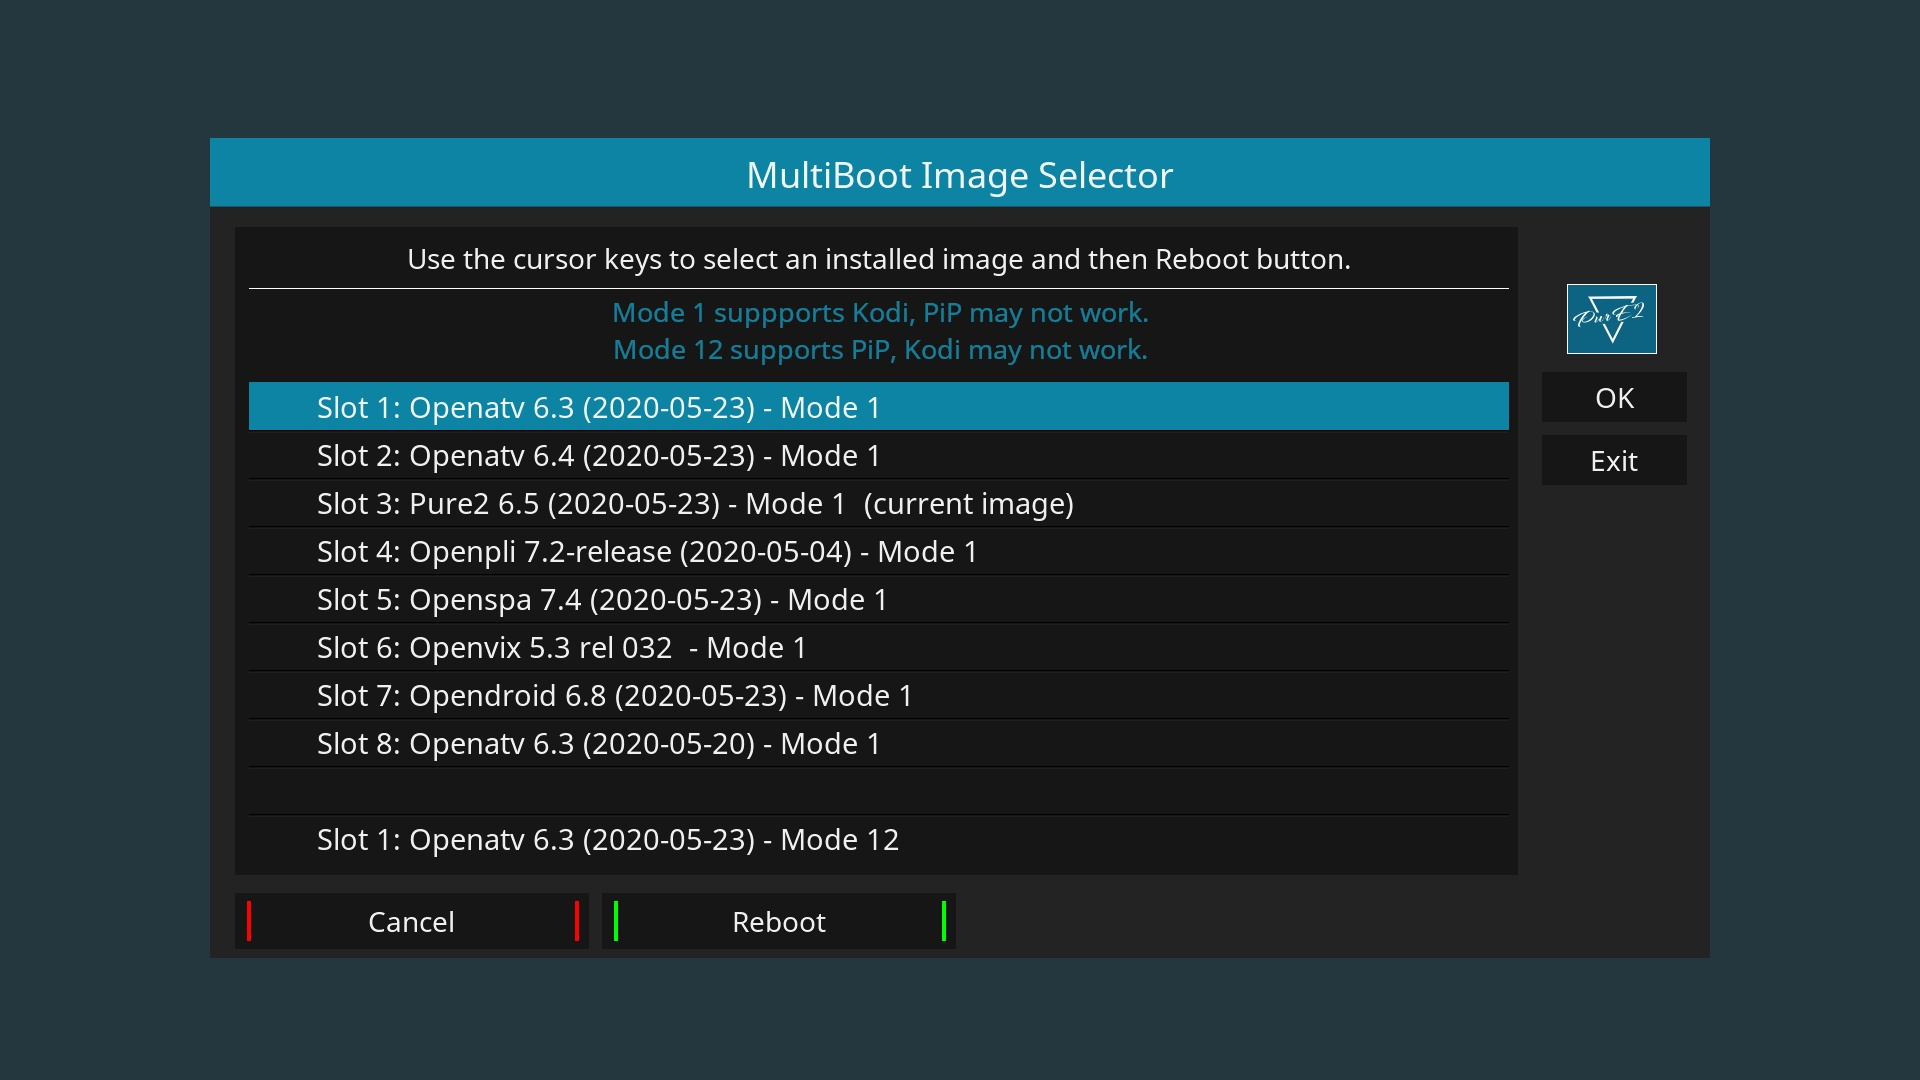
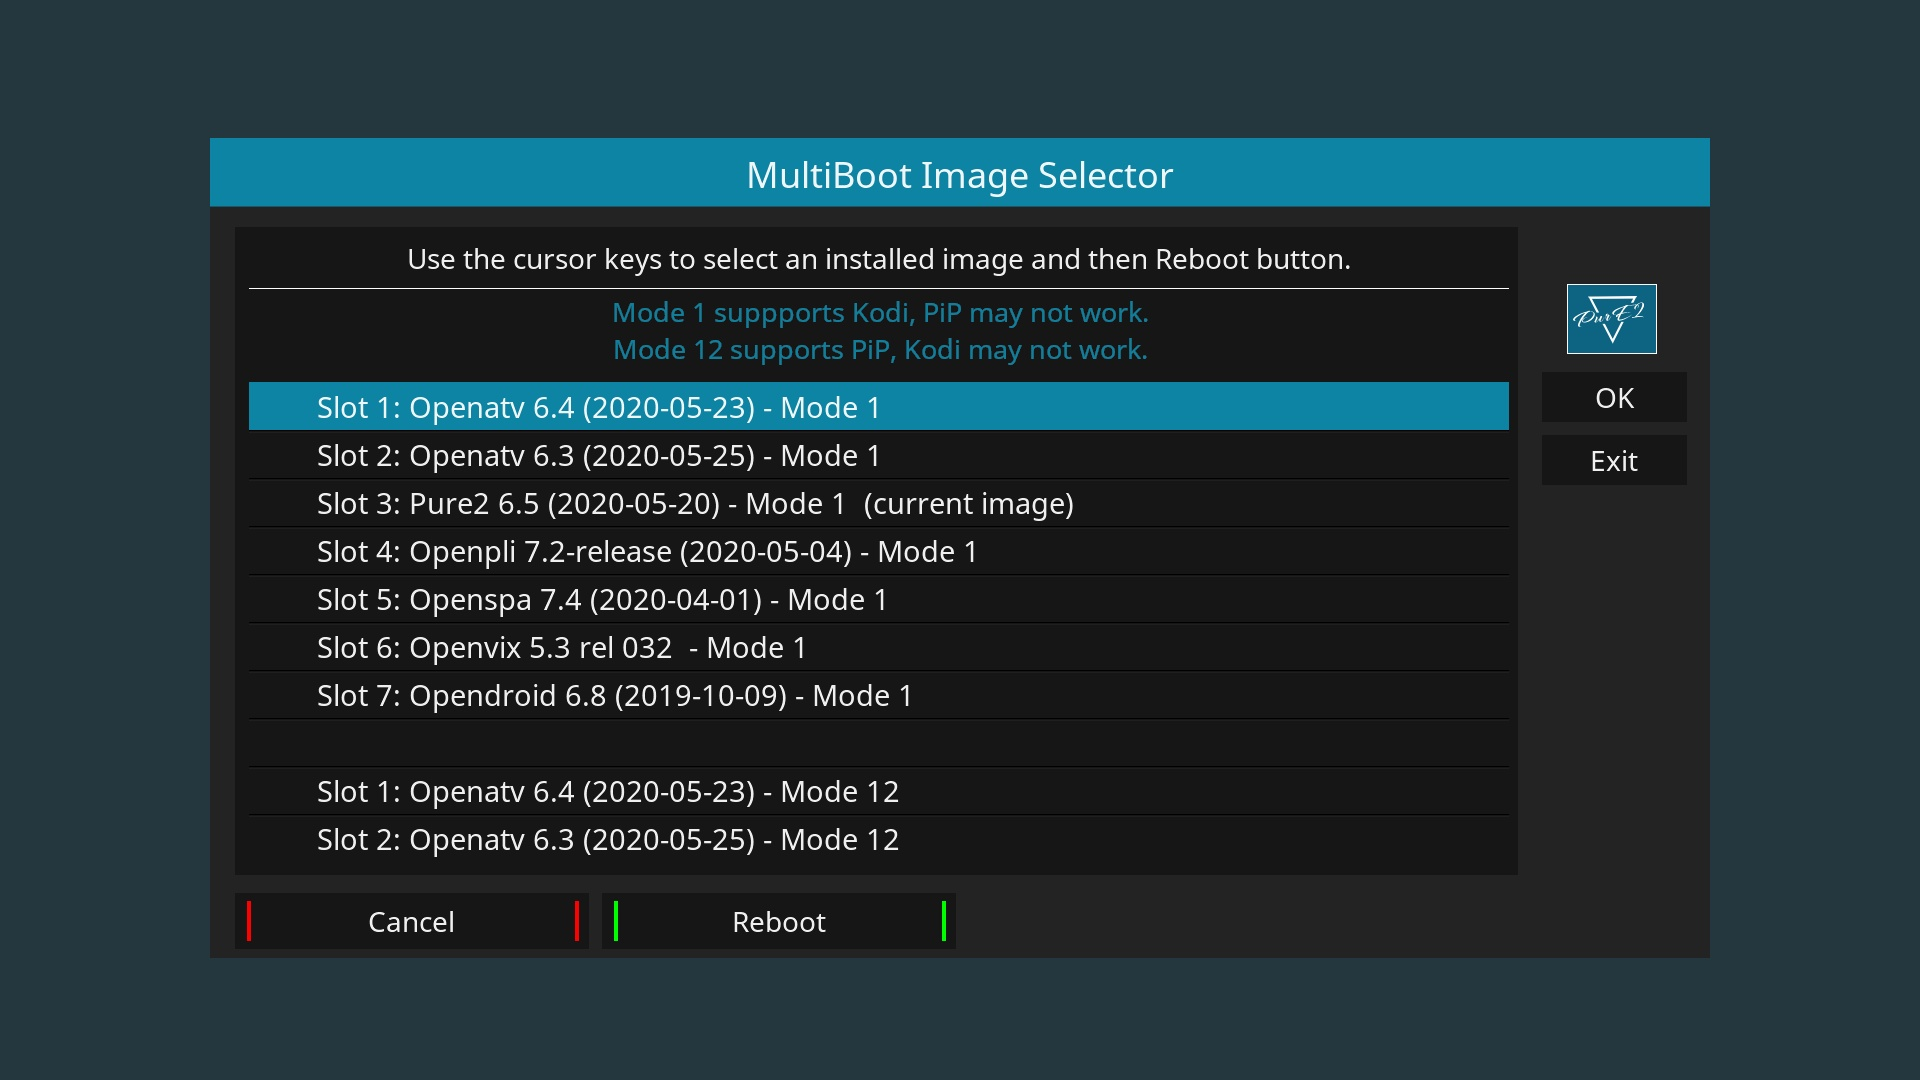
revamped the entire thing

Changed region(s): [[0.1562, 0.6417, 0.4688, 0.7639], [0.375, 0.55, 0.4062, 0.5806], [0.2812, 0.3667, 0.3125, 0.3972]]

diff --git a/mutanthd51/README.md b/mutanthd51/README.md
@@ -7,55 +7,47 @@ BIG THANKS to BazB, this wouldn't have been possible without his generosity!!!
 
 To take into consideration:
 
-* This is a developer oriented (multi-)image, if you don't know how to flash it
-  then it's probable that you shouldn't be trying it!
-  If you still want to try, apparently it doesn't really flash like any other
-  recovery image (ooops...) so you'll have to overwrite mmcblk0 with its
-  contents (I suggest using the "dd" command with 128M blocksize).
+* This is a developer oriented (multi-)image, with 8 slots sharing the total
+  available flash space. Only the slot 1 image is currently supplied, to save
+  space/download time - OpenATV 6.4 (unconfigured) - the pictures below are for
+  illustration purpouses only.
 
-* AFTER the multi-image is in place, flashing of each slot should be done from
-  the command line, not from the menus, as ogfwrite has some assumptions
-  builtin, which our partitioning scheme doesn't fulfill.
-  E.g., you can do "ofgwrite --rootfs=mmcblk0p10 -k -m2 /media/hdd/images/hd51/"
-  to flash a multiboot image to slot 2, if the kernel and rootfs files are in
-  the /media/hdd/images/hd51 directory. Typically the --rootfs option wouldn't
-  be required.
+* AFTER the multi-image is in place, you can flash slots 2 to 8 via the menus,
+  as usual. Slot 1 can not be flashed from the menus, as ogfwrite has some
+  assumptions builtin, which our partitioning scheme doesn't fulfill.
+  To flash slot 1, while booted from a different image, you can try and do
+  "ofgwrite --rootfs=mmcblk0p10 -k -m1 /mnt/hdd/images/hd51/"
+  if an appropriate kernel and rootfs files are in the "/mnt/hdd/images/hd51"
+  directory. Typically the "--rootfs" option wouldn't be required.
 
-* OpenSPA crashes on multiboot selection menu, so one needs to manually adjust
+* OpenDroid throws a warning regarding the commands in the startup files, just
+  ignore and reboot to the other slot anyway. Also, OpenDroid apparently
+  allows to reboot into an empty slot, so be careful.
+
+* OpenPLi only detects slots 1 to 4, and doesn't mount the boot partition by
+  default, so just reboot to slot 1 (where you're advised to keep OpenATV 6.4
+  or better) and from there reboot to any other desired slot.
+
+* OpenSPA also only detets slots 1 to 4, but it mounts the boot partition by
+  default, so just reboot to slot 1 (where you're advised to keep OpenATV 6.4
+  or better) and from there reboot to any other desired slot; or manually adjust
   the startup files once we want to reboot to another slot.
   E.g., you can do "cp /boot/STARTUP_1 /boot/STARTUP ; sync ; sync ; reboot"
   to reboot to slot 1.
-
-* OpenPLi only detects slot 1, and doesn't mount the boot partition by default,
-  so just reboot to slot 1 (where you're advised to keep OpenATV 6.3 or better)
-  and from there reboot to any other desired slot.
-
-* OpenDroid throws a warning regarding the commands in the startup files, just
-  ignore and reboot to the other slot anyway.
 
 * If you flash other images, namely older ones (e.g., OpenATV 6.2), they might
   not support the configured 8 slots (just like OpenPLi). A similar procedure as
   for OpenSPA or for OpenPLi should be followed.
 
-* OpenSPA was left in Spanish instead of English, sorry.
-
-* OpenDroid was left in the Rome timezone, not Dublin, sorry.
-
 @oottppxx
 
+[Image Download GDrive](https://drive.google.com/file/d/1Hbao9h3dSWhBHsRh11XYyDY9_4BfiEB_/)
 
-[Image Download GDrive](https://drive.google.com/file/d/1-j1j9eB8mA6mQuFQL5mC6y0MlclNZfa7/)
-
-
-[New Image Download GDrive - has issues!](https://drive.google.com/file/d/1-E8h1oclKX0-QpH1BEqvlnLGmU5kzhdd/)
-
-
+![Multi Boot Image Slot 1](https://github.com/oottppxx/enigma2/blob/master/mutanthd51/slot1.jpg)
 ![Multi Boot Image Slot 2](https://github.com/oottppxx/enigma2/blob/master/mutanthd51/slot2.jpg)
 ![Multi Boot Image Slot 3](https://github.com/oottppxx/enigma2/blob/master/mutanthd51/slot3.jpg)
 ![Multi Boot Image Slot 4](https://github.com/oottppxx/enigma2/blob/master/mutanthd51/slot4.jpg)
 ![Multi Boot Image Slot 5](https://github.com/oottppxx/enigma2/blob/master/mutanthd51/slot5.jpg)
 ![Multi Boot Image Slot 6](https://github.com/oottppxx/enigma2/blob/master/mutanthd51/slot6.jpg)
-![Multi Boot Image Slot 7a](https://github.com/oottppxx/enigma2/blob/master/mutanthd51/slot7a.jpg)
-![Multi Boot Image Slot 7b](https://github.com/oottppxx/enigma2/blob/master/mutanthd51/slot7b.jpg)
-![Multi Boot Image Slot 8](https://github.com/oottppxx/enigma2/blob/master/mutanthd51/slot8.jpg)
+![Multi Boot Image Slot 7](https://github.com/oottppxx/enigma2/blob/master/mutanthd51/slot7.jpg)
 
